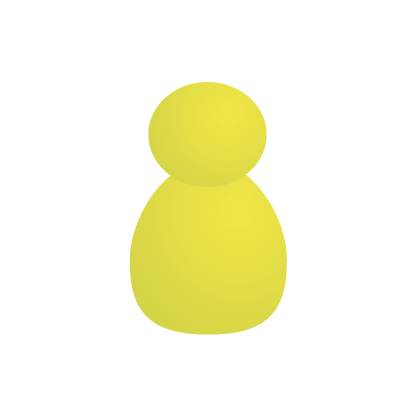
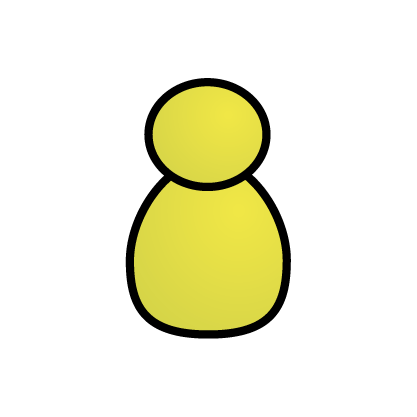
add border to players image

Changed region(s): [[0.2806, 0.1871, 0.717, 0.8106]]

diff --git a/pGroupeA06/src/util/Constants.java b/pGroupeA06/src/util/Constants.java
@@ -13,7 +13,7 @@ public interface Constants {
 							ANIMATION_TIME_START = 1000, //3000
 							ANIMATION_TIME_RATING = 1000,//2500
 							ANIMATION_TIME_ERROR = 1000, //3000
-							ANIMATION_TIME_TURN = 1200,
+							ANIMATION_TIME_TURN = 1400,
 							TIMER_START = 35,
 							TIMER_LIMIT = 5,
 							STRING_PERCENTAGE_ERROR_ANSWER=20,
